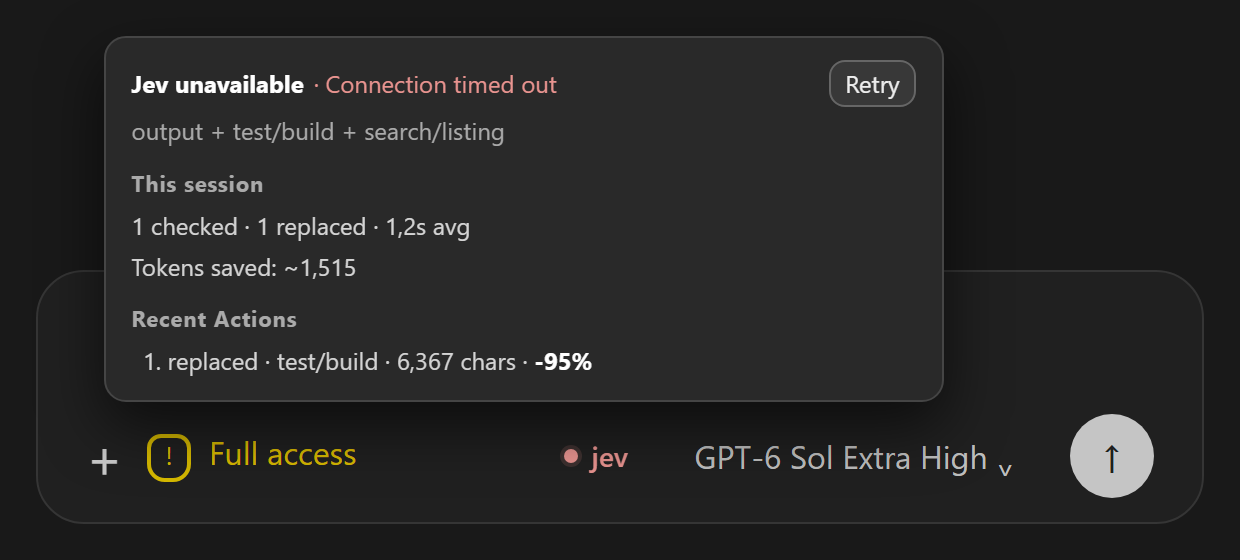
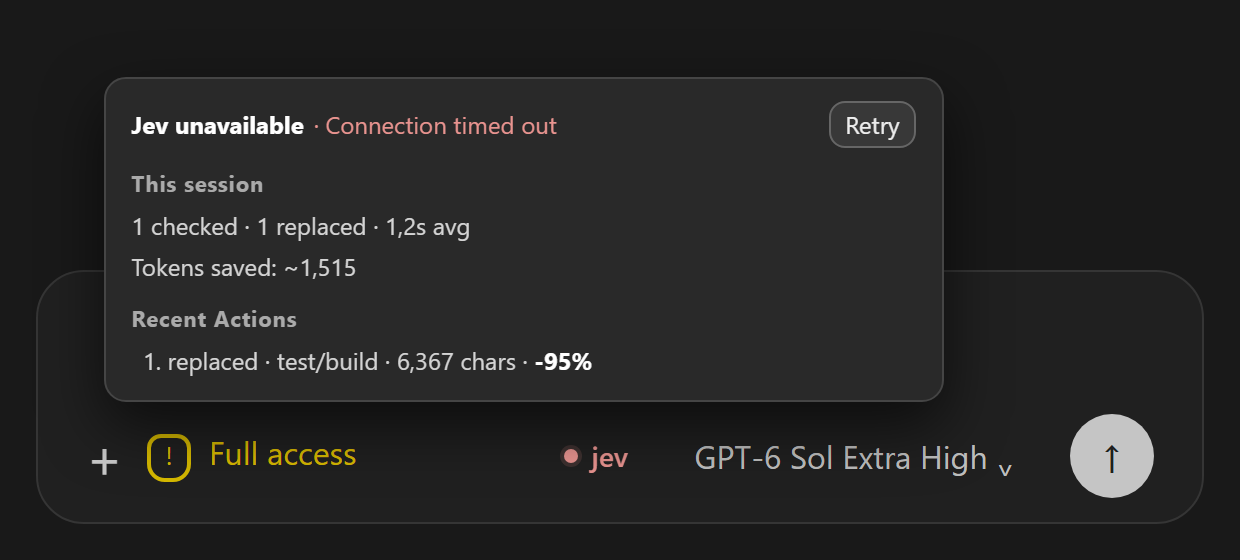
Trim Jev activity tooltip

Changed region(s): [[0.0919, 0.0607, 0.7661, 0.2732], [0.0919, 0.2125, 0.4597, 0.2732]]

diff --git a/vscode-control/webview/jev-control.js b/vscode-control/webview/jev-control.js
@@ -141,22 +141,23 @@
       #codex-jev-menu p { margin: 5px 0 0; padding: 9px 10px 4px; border-top: 1px solid var(--vscode-menu-separatorBackground, #ffffff1a); color: var(--vscode-descriptionForeground, #999); font-size: 11px; }
       #codex-jev-tip { display: none; width: min(420px, calc(100vw - 24px)); padding: 11px 13px; border: 1px solid #454545; border-radius: 11px; background: #292929; color: #dedede; pointer-events: auto; font-size: 12px; line-height: 1.45; white-space: normal; }
       #codex-jev-tip[data-needs-key="true"] { width: min(252px, calc(100vw - 24px)); padding: 9px 11px; }
-      #codex-jev-tip[data-needs-key="true"] #codex-jev-mode, #codex-jev-tip[data-needs-key="true"] #codex-jev-session-heading, #codex-jev-tip[data-needs-key="true"] #codex-jev-stats, #codex-jev-tip[data-needs-key="true"] #codex-jev-tokens, #codex-jev-tip[data-needs-key="true"] #codex-jev-history-heading, #codex-jev-tip[data-needs-key="true"] #codex-jev-history, #codex-jev-tip[data-needs-key="true"] #codex-jev-empty { display: none !important; }
+      #codex-jev-tip[data-needs-key="true"] #codex-jev-session-heading, #codex-jev-tip[data-needs-key="true"] #codex-jev-stats, #codex-jev-tip[data-needs-key="true"] #codex-jev-tokens, #codex-jev-tip[data-needs-key="true"] #codex-jev-history-heading, #codex-jev-tip[data-needs-key="true"] #codex-jev-history, #codex-jev-tip[data-needs-key="true"] #codex-jev-empty { display: none !important; }
       #codex-jev-tip::after { content: ""; position: absolute; top: 100%; left: 0; right: 0; height: 10px; }
       #codex-jev:hover #codex-jev-tip, #codex-jev:focus-within #codex-jev-tip { display: block; }
       #codex-jev[data-menu="true"] #codex-jev-tip { display: none; }
       #codex-jev-health-row { display: flex; align-items: center; gap: 5px; min-height: 20px; }
+      #codex-jev-health-row[hidden] { display: none; }
       #codex-jev-health-row strong { color: #fff; white-space: nowrap; }
       #codex-jev-health-reason { display: none; color: #e99490; margin: 0; min-width: 0; }
       #codex-jev-retry { display: none; margin-left: auto; padding: 2px 7px; border: 1px solid #666; border-radius: 8px; background: #383838; color: #eee; font: inherit; cursor: pointer; }
       #codex-jev-retry:hover { background: #484848; }
       #codex-jev-retry:disabled { opacity: .6; cursor: default; }
       #codex-jev-retry:focus-visible { outline: 2px solid #83bcf7; outline-offset: 2px; }
-      #codex-jev-tip span { display: block; color: #aaa; margin-top: 3px; }
       #codex-jev-tip #codex-jev-health-reason { color: #e99490; margin: 0; }
       #codex-jev-stats { color: #d4d4d4; }
       #codex-jev-tokens { margin-top: 3px; color: #d4d4d4; }
       #codex-jev-tip h3 { margin: 10px 0 4px; color: #aaa; font-size: 11px; font-weight: 650; letter-spacing: .04em; }
+      #codex-jev-health-row[hidden] + #codex-jev-session-heading { margin-top: 0; }
       #codex-jev-history { margin: 0; padding-left: 18px; color: #d4d4d4; }
       #codex-jev-history li { margin-top: 3px; }
       #codex-jev-history strong { font-weight: 700; color: #fff; }
@@ -200,7 +201,7 @@
     root.id = "codex-jev";
     root.innerHTML = `
       <button id="codex-jev-button" type="button" aria-label="Jev integrations" aria-expanded="false" aria-controls="codex-jev-menu"><span id="codex-jev-dot"></span><span id="codex-jev-label">jev</span><span id="codex-jev-observe">MON</span></button>
-      <div id="codex-jev-tip" role="group" aria-label="Jev status"><div id="codex-jev-health-row"><strong></strong><span id="codex-jev-health-reason"></span><button id="codex-jev-retry" type="button">Retry</button></div><span id="codex-jev-mode"></span><h3 id="codex-jev-session-heading">This session</h3><div id="codex-jev-stats"></div><div id="codex-jev-tokens"></div><h3 id="codex-jev-history-heading">Recent Actions</h3><ol id="codex-jev-history"></ol><p id="codex-jev-empty">None yet</p></div>
+      <div id="codex-jev-tip" role="group" aria-label="Jev activity"><div id="codex-jev-health-row"><strong></strong><span id="codex-jev-health-reason"></span><button id="codex-jev-retry" type="button">Retry</button></div><h3 id="codex-jev-session-heading">This session</h3><div id="codex-jev-stats"></div><div id="codex-jev-tokens"></div><h3 id="codex-jev-history-heading">Recent Actions</h3><ol id="codex-jev-history"></ol><p id="codex-jev-empty">None yet</p></div>
       <div id="codex-jev-menu" role="group" aria-label="Jev integrations" data-open="false"><h2>Jev integrations</h2><button id="codex-jev-option" class="codex-jev-option" type="button" role="checkbox" aria-checked="false"><span class="codex-jev-check"></span><span><strong>Output filter</strong><small>Check repetitive tool output with Jev</small></span></button><button id="codex-jev-test-build" class="codex-jev-option" type="button" role="checkbox" aria-checked="false"><span class="codex-jev-check"></span><span><strong>Test/build logs</strong><small>Jev checks routine lines before trimming</small></span></button><button id="codex-jev-search-listing" class="codex-jev-option" type="button" role="checkbox" aria-checked="false"><span class="codex-jev-check"></span><span><strong>Search/listing</strong><small>Jev trims broad search and file lists</small></span></button><button id="codex-jev-open-connect" class="codex-jev-option" type="button">Connect Jev…</button><p>Select none to turn Jev off.</p></div>`;
     document.body.appendChild(root);
     setup = document.createElement("div");
@@ -301,7 +302,9 @@
     const status = !state.enabled ? "Jev off" : needsSetup ? "API key needed" : state.health?.ok === true ? "Jev connected" :
       state.health?.ok === false ? "Jev unavailable" : "Checking Jev connection";
     root.querySelector("#codex-jev-tip").dataset.needsKey = String(needsSetup);
-    root.querySelector("#codex-jev-health-row strong").textContent = status;
+    const healthRow = root.querySelector("#codex-jev-health-row");
+    healthRow.hidden = state.enabled && !needsSetup && state.health?.ok === true;
+    healthRow.querySelector("strong").textContent = healthRow.hidden ? "" : status;
     const unavailable = state.enabled && (state.health?.ok === false || needsSetup);
     const reason = root.querySelector("#codex-jev-health-reason");
     reason.textContent = unavailable && !needsSetup ? `· ${healthReason(state.health.reason)}` : "";
@@ -310,8 +313,6 @@
     retry.style.display = unavailable ? "inline-block" : "none";
     retry.disabled = Boolean(retryRequestId);
     retry.textContent = needsSetup ? "Connect" : retryRequestId ? "Checking…" : "Retry";
-    root.querySelector("#codex-jev-mode").textContent = state.enabled ?
-      `${[state.outputEnabled && "output", state.testBuildEnabled && "test/build", state.searchListingEnabled && "search/listing"].filter(Boolean).join(" + ")}${state.mode === "observe" ? " · monitor" : ""}` : "No integrations selected. Click to choose.";
     const stats = state.stats || {};
     const completed = Number(stats.completed) || 0;
     const average = completed ? formatDuration((Number(stats.elapsedMs) || 0) / completed) : "—";

diff --git a/tests/browser/browser_harness.html b/tests/browser/browser_harness.html
@@ -263,7 +263,9 @@
       check(tooltip.textContent.includes("This session") && tooltip.textContent.includes("Recent Actions") &&
         tooltip.textContent.includes("7 checked · 1 replaced · 1,1s avg") &&
         tooltip.textContent.includes("Tokens saved: ~1,515") &&
-        !tooltip.textContent.includes("chars checked") && !tooltip.textContent.includes("· replace"),
+        !tooltip.textContent.includes("chars checked") && !tooltip.textContent.includes("· replace") &&
+        !tooltip.textContent.includes("Jev connected") && !tooltip.textContent.includes("output +") &&
+        document.getElementById("codex-jev-health-row").hidden,
         "session labels and estimated token savings");
       check(tooltip.querySelector("li strong")?.textContent === "-95%" &&
         !tooltip.querySelector("li")?.textContent.includes("1,2s"), "bold reductions without action timings");
@@ -281,6 +283,7 @@
       check(button.style.color === "rgb(233, 148, 144)", "failure red");
       const retry = document.getElementById("codex-jev-retry");
       check(tooltip.textContent.includes("API key rejected") && retry.style.display !== "none" &&
+        !document.getElementById("codex-jev-health-row").hidden &&
         getComputedStyle(tooltip).pointerEvents === "auto" &&
         getComputedStyle(tooltip, "::after").height === "10px", "reachable retry and short failure reason");
       retry.click();
@@ -300,7 +303,8 @@
       check(button.style.color === "rgb(233, 148, 144)", "test/build filter reflects failed Jev health");
       health = { ok: true, model: "jev-1.13.0" };
       await pause(150);
-      check(button.style.color === "rgb(135, 205, 164)" && tooltip.textContent.includes("Jev connected"), "test/build filter requires Jev health");
+      check(button.style.color === "rgb(135, 205, 164)" &&
+        document.getElementById("codex-jev-health-row").hidden, "test/build filter requires Jev health");
       option.click();
       await pause(50);
       check(localOption.getAttribute("aria-checked") === "true" && option.getAttribute("aria-checked") === "true", "both filters selected");
@@ -311,7 +315,8 @@
       await pause(50);
       check(compactOption.getAttribute("aria-checked") === "true" && option.getAttribute("aria-checked") === "true", "search/listing selected independently");
       check(menu.dataset.open === "true", "menu stays open for a third selection");
-      check(tooltip.textContent.includes("search/listing"), "search/listing appears in selected mode");
+      check(!tooltip.textContent.includes("search/listing") && !tooltip.querySelector("#codex-jev-mode"),
+        "integration selection stays in the menu");
       option.click();
       await pause(50);
       check(compactOption.getAttribute("aria-checked") === "true" && option.getAttribute("aria-checked") === "false", "search/listing remains selected alone");
